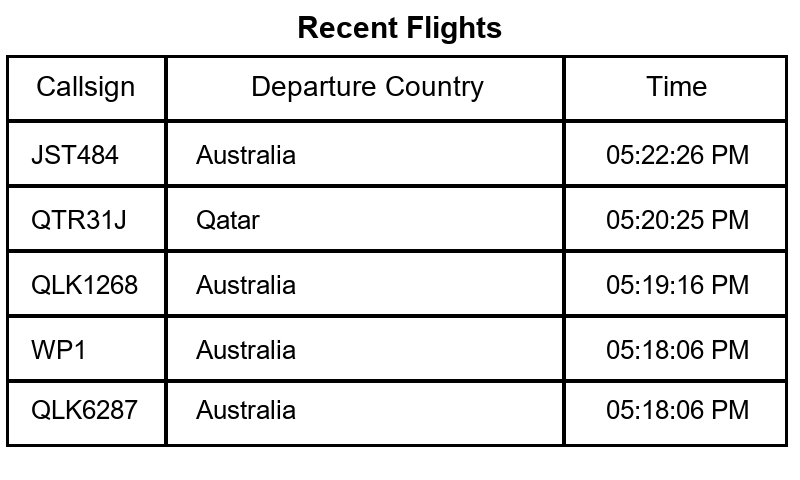
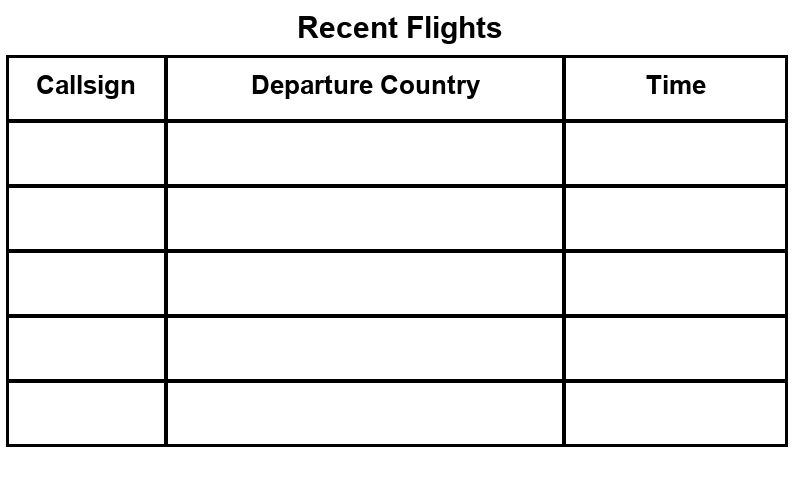
Converted image outputs to greyscale channel, added extra row or better plotting accuracy

diff --git a/src/Services/history.py b/src/Services/history.py
@@ -105,5 +105,6 @@ def generateHistory(flights, displayHistory):
 
     # Save image and display image when appropriate
     if displayHistory == True:
+        img.convert('L')
         img.save("flights_table.png")
         img.show()

diff --git a/src/Services/map.py b/src/Services/map.py
@@ -100,4 +100,6 @@ def generateMap (flights):
 
     #save and show image
     image.save("map.png")
-    image.show()
+    img = Image.open("map.png").convert('L')
+    img.save("mapGrey.png")
+    img.show()

diff --git a/src/Tracker/converter.py b/src/Tracker/converter.py
@@ -1,4 +1,4 @@
-rows, cols = 4, 8
+rows, cols = 5, 8
 height, width = 480, 800
 
 latMin, latMax = -27.540000, -27.410000
